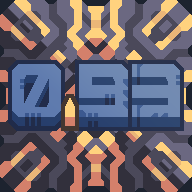
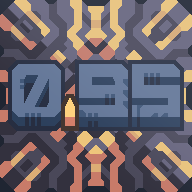
Ready to release

Changed region(s): [[0.6875, 0.3125, 0.9375, 0.4688]]

diff --git a/README.md b/README.md
@@ -1,4 +1,4 @@
-# Exoprosopa V0.93: Pre-Finalize Update
+# Exoprosopa V0.95 Status Effects Update!
 <div align = center>
 
 <br>
@@ -101,6 +101,10 @@ Check it on my profile. My username is TnmSpiroctsub.<br><br>
 - Clevorite & Bloodstone Research Pacing
 - Added Custom Liquid Tiles
 - Improved Aqua Fog System
+- Removed 8 Old Status Effects - Add 32 New Status Effects
+- Improved Spark & Sora Visual
+- Improved Red Pallete Blocks
+- Improved Base Turret Sprites
 <br>
 
 ![Banner]
